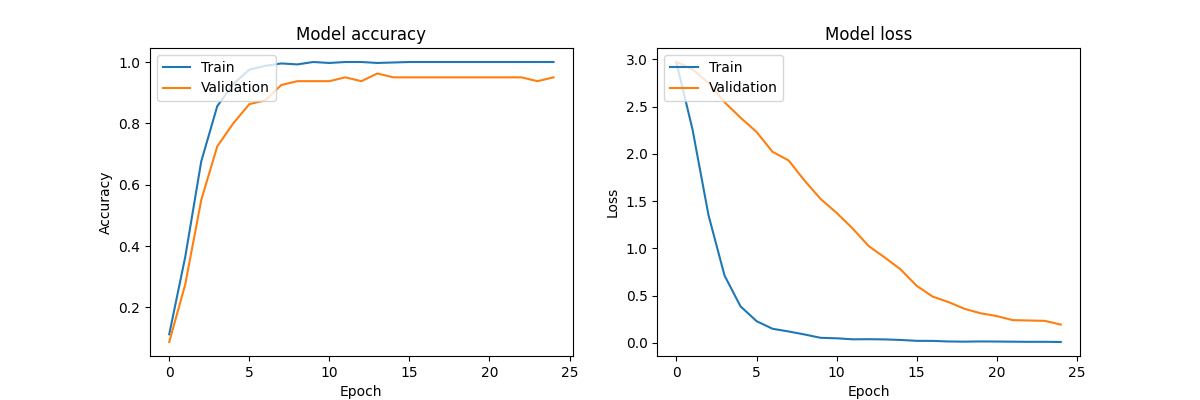
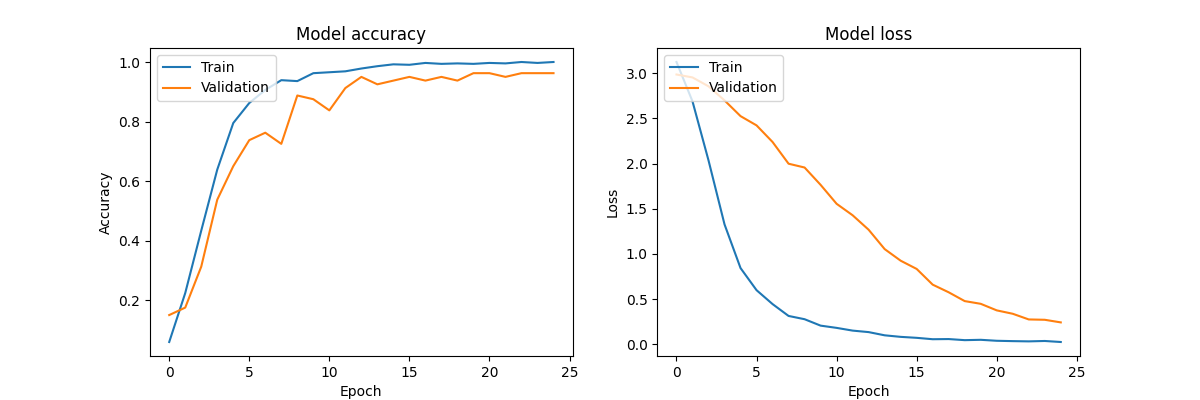
num_ceps = 13

diff --git a/src/feature_extractor.py b/src/feature_extractor.py
@@ -186,6 +186,7 @@ def save_mfcc(label: str, mfcc_features: np.ndarray, index: int, path: str) -> N
 
 
 def create_mfcc_dataset(path: str, file_path: str, include_noisy: bool, use_spectral_features: bool, use_mel_filter_bank: bool) -> None:
+    print("Creating MFCC dataset...")
     audio_data, labels = file_reader.load_dataset(file_path, include_noisy=include_noisy)
     print("Number of audio files loaded:", len(audio_data))
     
@@ -193,14 +194,13 @@ def create_mfcc_dataset(path: str, file_path: str, include_noisy: bool, use_spec
         label = labels[i]
         
         signal = preprocess_signal(audio_data[i])
-        mfcc = get_mfcc_signal(signal, fs=16000, frame_size=0.025, frame_stride=0.01, num_mel_filters=40, num_ceps=26, use_spectral_features=use_spectral_features, use_mel_filter_bank=use_mel_filter_bank)
+        mfcc = get_mfcc_signal(signal, fs=16000, frame_size=0.025, frame_stride=0.01, num_mel_filters=40, num_ceps=13, use_spectral_features=use_spectral_features, use_mel_filter_bank=use_mel_filter_bank)
         mfcc = (mfcc - np.mean(mfcc)) / np.std(mfcc)  # Normalise MFCC
         delta = compute_deltas(mfcc)
         delta_delta = compute_deltas(delta)
         final = np.concatenate((mfcc, delta, delta_delta), axis=1)
-        print(f"MFCC shape for sample {i}: {final.shape} of label '{label}'")
-        
         save_mfcc(label, final, i, path)
+    print("MFCC dataset created.")
 
 
 ## Load MFCC dataset from disk, creating it if necessary

diff --git a/src/main.py b/src/main.py
@@ -1,6 +1,3 @@
-from dotenv import load_dotenv
-load_dotenv() 
-
 import time
 import os
 import shutil
